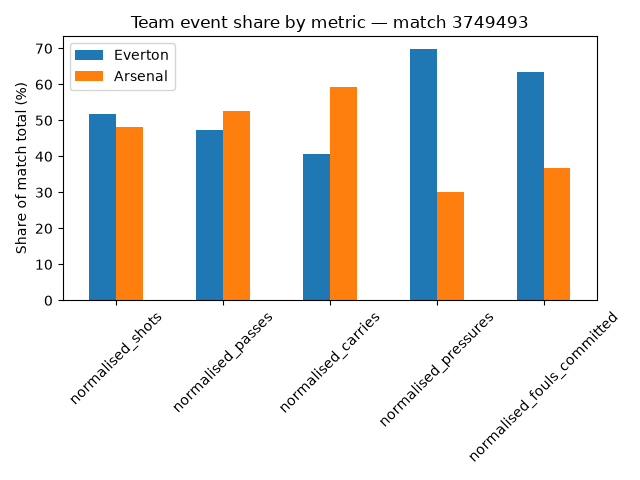
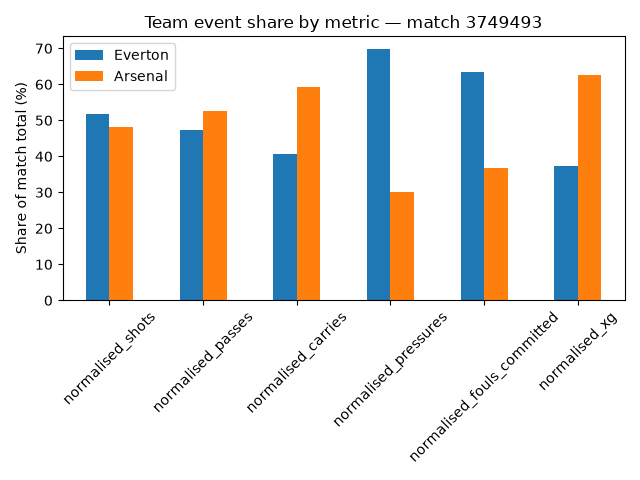
added expected goals

diff --git a/match report.py b/match report.py
@@ -19,11 +19,15 @@ def match_report(match_id):
     team1_shots_on_target = team1_shots_saved + team1_goals
     team2_shots_on_target = team2_shots_saved + team2_goals
     top_players_by_events = get_top_players_by_events(events, 5)
+    top_xg_shots, xg_by_team = get_xg_stats(match_id)
+    team1_xg = xg_by_team.loc[team1]
+    team2_xg = xg_by_team.loc[team2]
     team_stats = pd.DataFrame([
         {
             "team":team1,
             "goals":team1_score,
             "shots":team1_shots,
+            "xg":team1_xg,
             "passes":team1_passes,
             "dribbles":team1_dribbles,
             "carries":team1_carries,
@@ -34,6 +38,7 @@ def match_report(match_id):
             "team":team2,
             "goals":team2_score,
             "shots":team2_shots,
+            "xg":team2_xg,
             "passes":team2_passes,
             "dribbles":team2_dribbles,
             "carries":team2_carries,
@@ -45,6 +50,7 @@ def match_report(match_id):
         {
             "team":team1,
             "total_shots":team1_shots,
+            "xg":team1_xg,
             "goals":team1_score,
             "shots_on_target":team1_shots_on_target,
             "shots_blocked":team1_shots_blocked,
@@ -53,6 +59,7 @@ def match_report(match_id):
         {
             "team":team2,
             "total_shots":team2_shots,
+            "xg":team2_xg,
             "goals":team2_score,
             "shots_on_target":team2_shots_on_target,
             "shots_blocked":team2_shots_blocked,
@@ -69,6 +76,7 @@ def match_report(match_id):
         "team_stats":team_stats,
         "shot_summary":shot_summary,
         "top_players":top_players_by_events,
+        "top_xg_shots":top_xg_shots
     }
 def get_score(events, team1, team2):
     team1_goals, team2_goals = count_shot_outcome_by_team("Goal", events, team1, team2)
@@ -103,56 +111,59 @@ def count_shot_outcome_by_team(shot_type, events, team1, team2):
     team2_score = goals_by_team.get(team2, 0)
     return team1_score, team2_score
 def print_match_report(report):
+    team_stats = report["team_stats"].set_index("team")
+    shot_summary = report["shot_summary"].set_index("team")
     team1, team2 = report["teams"]
     score = report["score"]
-    shots = report["team_stats"]["shots"]
-    passes = report["team_stats"]["passes"]
-    carries = report["team_stats"]["carries"]
-    pressures = report["team_stats"]["pressures"]
-    fouls_committed = report["team_stats"]["fouls_committed"]
     top_players = report["top_players"]
-    shots_on_target = report["shot_summary"]["shots_on_target"]
-    shots_off_target = report["shot_summary"]["shots_off_target"]
-    shots_blocked = report["shot_summary"]["shots_blocked"]
+    top_xg_shots = report["top_xg_shots"]
     print(f"Match: {team1} {score[team1]}-{score[team2]} {team2}")
     print("\nBasic stats: ")
     print(f"{team1}:")
-    print(f"- Shots: {shots.iloc[0]}")
+    print(f"- Shots: {team_stats.loc[team1, "shots"]}")
     print(f"- Goals: {score[team1]}")
-    print(f"- Passes: {passes.iloc[0]}")
-    print(f"- Carries: {carries.iloc[0]}")
-    print(f"- Pressures: {pressures.iloc[0]}")
-    print(f"- Fouls Committed: {fouls_committed.iloc[0]}")
+    print(f"- XG: {team_stats.loc[team1,"xg"]:.2f}")
+    print(f"- Passes: {team_stats.loc[team1, "passes"]}")
+    print(f"- Carries: {team_stats.loc[team1, "carries"]}")
+    print(f"- Pressures: {team_stats.loc[team1, "pressures"]}")
+    print(f"- Fouls Committed: {team_stats.loc[team1, "fouls_committed"]}")
     print(f"\n{team2}:")
-    print(f"- Shots: {shots.iloc[1]}")
+    print(f"- Shots: {team_stats.loc[team2, "shots"]}")
     print(f"- Goals: {score[team2]}")
-    print(f"- Passes: {passes.iloc[1]}")
-    print(f"- Carries: {carries.iloc[1]}")
-    print(f"- Pressures: {pressures.iloc[1]}")
-    print(f"- Fouls Committed: {fouls_committed.iloc[1]}")
+    print(f"- XG: {team_stats.loc[team2, "xg"]:.2f}")
+    print(f"- Passes: {team_stats.loc[team2, "passes"]}")
+    print(f"- Carries: {team_stats.loc[team2, "carries"]}")
+    print(f"- Pressures: {team_stats.loc[team2, "pressures"]}")
+    print(f"- Fouls Committed: {team_stats.loc[team2, "fouls_committed"]}")
     print("\nTop players:")
     print(top_players.to_string(index=False))
+    print("\nTop XG shots:")
+    print(top_xg_shots.to_string(index = False))
     print(f"\nShot Summary:\n{team1}:")
-    print(f"- Total Shots: {shots.iloc[0]}")
+    print(f"- Total Shots: {shot_summary.loc[team1, "total_shots"]}")
+    print(f"- XG: {shot_summary.loc[team1, "xg"]:.2f}")
     print(f"- Goals: {score[team1]}")
-    print(f"- Shots On Target: {shots_on_target.iloc[0]}")
-    print(f"- Shots Off Target: {shots_off_target.iloc[0]}")
-    print(f"- Shots Blocked: {shots_blocked.iloc[0]}")
+    print(f"- Shots On Target: {shot_summary.loc[team1, "shots_on_target"]}")
+    print(f"- Shots Off Target: {shot_summary.loc[team1, "shots_off_target"]}")
+    print(f"- Shots Blocked: {shot_summary.loc[team1, "shots_blocked"]}")
     print(f"\n{team2}: ")
-    print(f"- Total Shots: {shots.iloc[1]}")
+    print(f"- Total Shots: {shot_summary.loc[team2, "total_shots"]}")
+    print(f"- XG: {shot_summary.loc[team2, "xg"]:.2f}")
     print(f"- Goals: {score[team2]}")
-    print(f"- Shots On Target: {shots_on_target.iloc[1]}")
-    print(f"- Shots Off Target: {shots_off_target.iloc[1]}")
-    print(f"- Shots Blocked: {shots_blocked.iloc[1]}")
+    print(f"- Shots On Target: {shot_summary.loc[team2, "shots_on_target"]}")
+    print(f"- Shots Off Target: {shot_summary.loc[team2, "shots_off_target"]}")
+    print(f"- Shots Blocked: {shot_summary.loc[team2, "shots_blocked"]}")
 def export_report(report, output_dir="outputs"):
     os.makedirs(output_dir, exist_ok=True)
     match_id = report["match_id"]
     team_stats_path = os.path.join(output_dir, f"match_{match_id}_team_stats.csv")
     shot_summary_path = os.path.join(output_dir, f"match_{match_id}_shot_summary.csv")
     top_players_path = os.path.join (output_dir, f"match_{match_id}_top_players.csv")
+    top_xg_shots_path = os.path.join(output_dir, f"match_{match_id}_top_xg_shots.csv")
     team_stats_csv = report["team_stats"].to_csv(team_stats_path, index = False)
     shot_summary_csv = report["shot_summary"].to_csv(shot_summary_path, index = False)
     top_players_csv = report["top_players"].to_csv(top_players_path, index = False)
+    top_xg_shots_csv = report["top_xg_shots"].to_csv(top_xg_shots_path, index = False)
 def validate_scores(competition_id, season_id, n=20):
     matches = sb.matches(competition_id=competition_id, season_id=season_id)
     errors = []
@@ -166,7 +177,7 @@ def validate_scores(competition_id, season_id, n=20):
         score = report["score"]
         home_score_calculated = score.get(home_team)
         away_score_calculated = score.get(away_team)
-        if home_score_offical != home_score_calculated and away_score_official != away_score_calculated:
+        if home_score_offical != home_score_calculated or away_score_official != away_score_calculated:
             errors.append({
                 "match_id":match_id,
                 "home_team":home_team,
@@ -177,11 +188,6 @@ def validate_scores(competition_id, season_id, n=20):
                 "away_score_calculated":away_score_calculated
             })
     return pd.DataFrame(errors)
-def match_report_from_competition(competition_id, season_id, match_id):
-    matches = sb.matches(competition_id=competition_id, season_id=season_id)
-    match = matches[matches["match_id"] == match_id].iloc[0]
-    home_team = match["home_team"]
-    away_team = match["away_team"]
     return match_report(match_id, home_team=home_team, away_team=away_team)
 def plot_team_stats(report, output_dir="outputs"):
     match_id = report["match_id"]
@@ -198,21 +204,19 @@ def plot_team_stats(report, output_dir="outputs"):
     return normalised_stats_by_metric
 def normalise_stats_by_metric(report):
     team1,team2 = report["teams"]
-    shots = report["team_stats"]["shots"]
-    carries = report["team_stats"]["carries"]
-    pressures = report["team_stats"]["pressures"]
-    passes = report["team_stats"]["passes"]
-    fouls_committed = report["team_stats"]["fouls_committed"]
-    team1_normalised_shots = shots.iloc[0]/(shots.iloc[0] + shots.iloc[1]) *100
+    team_stats = report["team_stats"].set_index("team")
+    team1_normalised_shots = team_stats.loc[team1, "shots"] /(team_stats.loc[team1, "shots"] + team_stats.loc[team2, "shots"]) *100
     team2_normalised_shots = 100 - team1_normalised_shots
-    team1_normalised_carries = carries.iloc[0]/(carries.iloc[0]+carries.iloc[1]) *100
+    team1_normalised_carries = team_stats.loc[team1, "carries"]/(team_stats.loc[team1, "carries"] + team_stats.loc[team2, "carries"])*100
     team2_normalised_carries = 100 - team1_normalised_carries
-    team1_normalised_pressures = pressures.iloc[0]/(pressures.iloc[0]+pressures.iloc[1])*100
+    team1_normalised_pressures = team_stats.loc[team1, "pressures"]/(team_stats.loc[team1, "pressures"] + team_stats.loc[team2, "pressures"])*100
     team2_normalised_pressures = 100 - team1_normalised_pressures
-    team1_normalised_passes = passes.iloc[0]/(passes.iloc[0]+passes.iloc[1])*100
+    team1_normalised_passes = team_stats.loc[team1, "passes"]/(team_stats.loc[team1, "passes"] + team_stats.loc[team2, "passes"])*100
     team2_normalised_passes = 100 - team1_normalised_passes
-    team1_normalised_fouls_committed = fouls_committed.iloc[0]/(fouls_committed.iloc[0]+fouls_committed.iloc[1])*100
+    team1_normalised_fouls_committed = team_stats.loc[team1, "fouls_committed"]/(team_stats.loc[team1, "fouls_committed"]+team_stats.loc[team2, "fouls_committed"])*100
     team2_normalised_fouls_committed = 100 - team1_normalised_fouls_committed
+    team1_normalised_xg = team_stats.loc[team1, "xg"]/(team_stats.loc[team1, "xg"] + team_stats.loc[team2, "xg"])*100
+    team2_normalised_xg = 100 - team1_normalised_xg
     stats_by_metric = ({
         "normalised_shots":{
             team1:team1_normalised_shots,
@@ -233,11 +237,23 @@ def normalise_stats_by_metric(report):
         "normalised_fouls_committed":{
             team1:team1_normalised_fouls_committed,
             team2:team2_normalised_fouls_committed
+        },
+        "normalised_xg":{
+            team1:team1_normalised_xg,
+            team2:team2_normalised_xg
         }
     })
     return pd.DataFrame(stats_by_metric).T
+def get_xg_stats(match_id):
+    events = sb.events(match_id=match_id)
+    shots = events[events["type"] == "Shot"]
+    shots = shots[["player", "team", "minute", "shot_statsbomb_xg", "shot_outcome"]]
+    expected_goals_by_team = shots.groupby("team")["shot_statsbomb_xg"].sum()
+    sorted_shots = shots.sort_values("shot_statsbomb_xg", ascending = False).head()
+    return sorted_shots, expected_goals_by_team
 report = match_report(3749493)
+get_xg_stats(3749493)
 print_match_report(report)
 export_report(report, output_dir="outputs")
-print(validate_scores(2, 44))
+#validate_scores(2, 44)
 plot_team_stats(report)